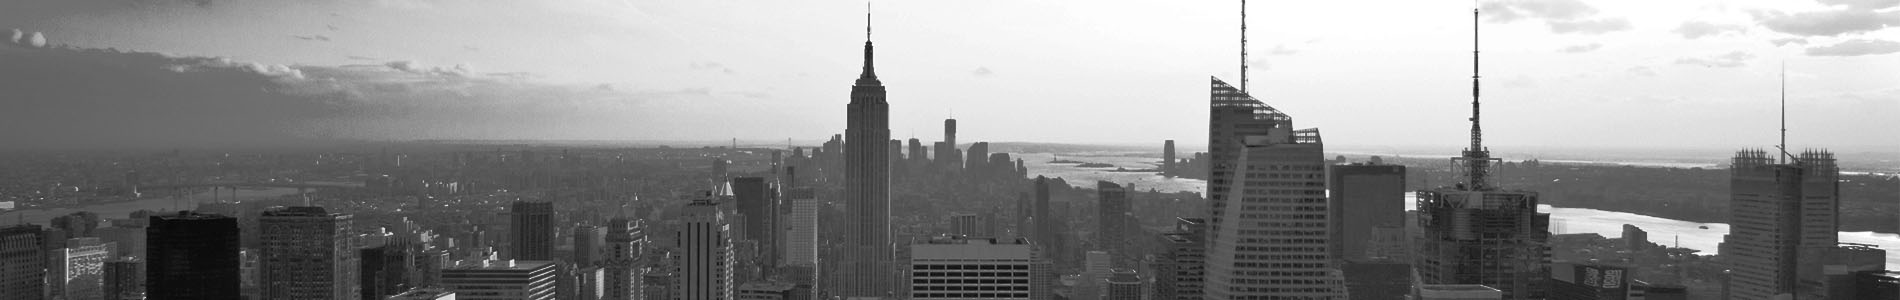
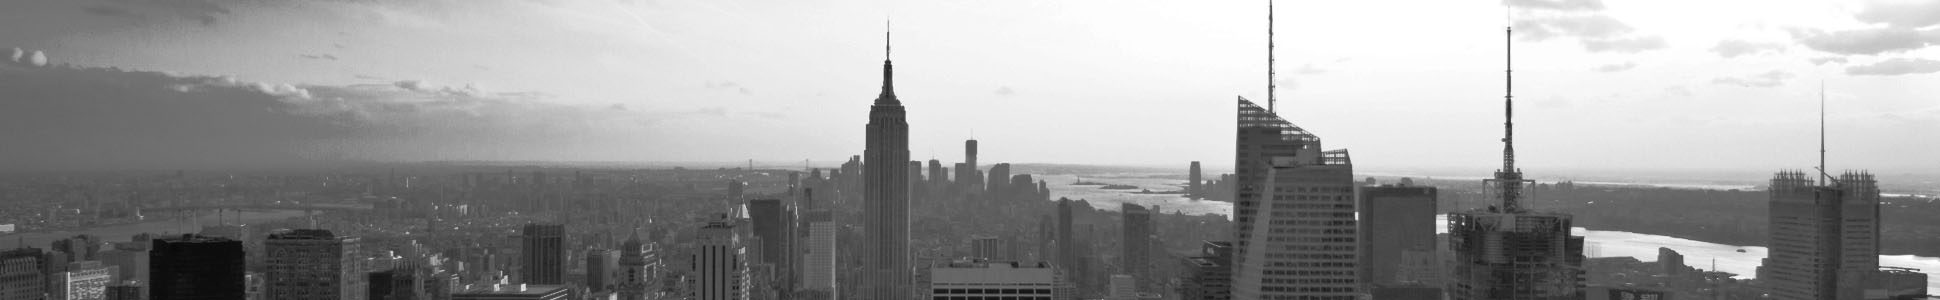
poprawki

diff --git a/css/main.css b/css/main.css
@@ -11,7 +11,7 @@
 #jumboBacInd {
     background-image: url('../img/jumboBg.jpg');
     background-position: top;
-    bckground-size: cover;
+    bckground-size: width;
     background-repeat: no-repeat;
 }
 

diff --git a/users.php b/users.php
@@ -37,9 +37,10 @@
     <script src="js/main.js"></script>
 </head>
 <?php
-if (session_status() == PHP_SESSION_ACTIVE) {
-} else {
-    header('Location: index.php');
+session_start();
+if (!isset($_SESSION['logged']) && $_SESSION['logged'] == false) {
+    header("Location: index.php");
+    exit();
 }
 ?>
 <body>
@@ -69,7 +70,23 @@ if (session_status() == PHP_SESSION_ACTIVE) {
 
 
 <div class="container">
-
+    <div class="row">
+        <div class="col-lg-2"></div>
+        <div class="col-lg-10">
+            <table>
+                <tbody>
+                <tr>
+                    <td>ID</td>
+                    <td>login</td>
+                    <td>hasło</td>
+                    <td>mail</td>
+                    <td>poziom przywilejów</td>
+                    <td>data dodania</td>
+                </tr>
+                </tbody>
+            </table>
+        </div>
+    </div>
 
     <footer>
         <p>&copy; Kamil Owczarz 2017</p>

diff --git a/session.php b/session.php
@@ -72,8 +72,8 @@ if (!isset($_SESSION['logged']) && $_SESSION['logged'] == false) {
 <div class="jumbotron" id="jumboBacInd">
     <div class="container" id="black">
         <h1>Cześć <?php echo $_SESSION['username']; ?>!</h1>
-        <p>Witam wszystkich na mojej stronie</p>
-        <p><a class="btn btn-primary btn-lg" href="users.php" role="button">Learn more &raquo;</a></p>
+        <p>Witam Cię na mojej stronie</p>
+        <p><a class="btn btn-primary btn-lg" href="users.php" role="button">Edytuj użytkowników &raquo;</a></p>
     </div>
 </div>
 
